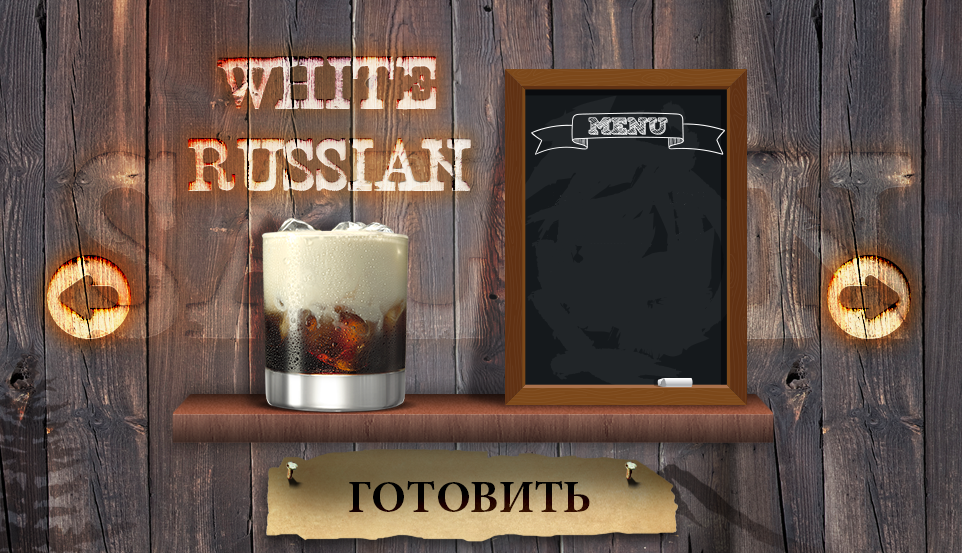
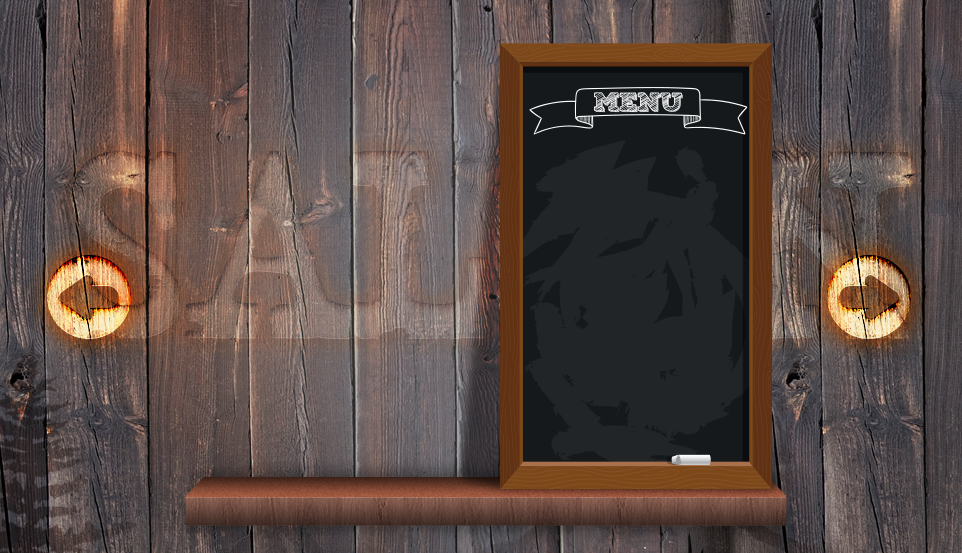
Add new layout

diff --git a/src/client/app/pumps/pumps.html b/src/client/app/pumps/pumps.html
@@ -31,26 +31,41 @@
             </md-content>
         </md-tab>
         <md-tab label="Ingredients">
-            <md-content class="md-padding" flex>
-                <div layout="row" layout-wrap>
-                    <div flex="33">
+            <div layout="row" layout-wrap>
+                <div flex="33">
+                    <md-content class="md-padding" flex="33">
                         <md-list>
-                            <md-list-item ng-repeat-start="ingredient in vm.ingredients">
-                                <md-button style="min-width: 100%">{{ ingredient.name }}</md-button>
+                            <md-list-item ng-repeat-start="ingredient in vm.liquids">
+                                <md-button style="min-width: 100%" ng-click="vm.selectedIngredient = ingredient">{{ ingredient.name }}</md-button>
                             </md-list-item>
                             <md-divider ng-repeat-end></md-divider>
+                            <md-list-item>
+                                <md-button style="min-width: 100%" ng-click="vm.addNewLiquid()">Add new</md-button>
+                            </md-list-item>
                         </md-list>
-                    </div>
-                    <div flex="66">
-                        [flex="55"]
-                    </div>
+                    </md-content>
                 </div>
+                <div flex="66">
+                    <md-content layout-padding>
+                        <md-input-container>
+                            <label>Id</label>
+                            <input ng-model="vm.selectedIngredient.id" type="text" ng-disabled="!vm.selectedIngredient.isNew">
+                        </md-input-container>
+                        <md-input-container>
+                            <label>Name</label>
+                            <input ng-model="vm.selectedIngredient.name" type="text">
+                        </md-input-container>
+                        <md-button class="md-raised" ng-click="vm.saveLiquids()">Save</md-button>
+                    </md-content>
+                </div>
+            </div>
+        </md-tab>
+        <md-tab label="Cocktails">
+            <md-content class="md-padding">
             </md-content>
         </md-tab>
-        <md-tab label="three">
+        <md-tab label="Exit" ng-click="shell.showApp = !shell.showApp">
             <md-content class="md-padding">
-                <h1 class="md-display-2">Tab Three</h1>
-                <p>Integer turpis erat, porttitor vitae mi faucibus, laoreet interdum tellus. Curabitur posuere molestie dictum. Morbi eget congue risus, quis rhoncus quam. Suspendisse vitae hendrerit erat, at posuere mi. Cras eu fermentum nunc. Sed id ante eu orci commodo volutpat non ac est. Praesent ligula diam, congue eu enim scelerisque, finibus commodo lectus.</p>
             </md-content>
         </md-tab>
     </md-tabs>

diff --git a/src/client/app/layout/shell.js b/src/client/app/layout/shell.js
@@ -16,11 +16,14 @@
         var SIGN_BOARD = "content/images/signboard.png";
         var GEAR = "content/images/gear.png";
         var SMALL_GEAR = "content/images/small_gear.png";
+        var DEFAULT_COCKTAIL = "content/images/default-cocktail.png";
+        var MAKE_BUTTON = "content/images/make.png";
+        var VOICE_BUTTON = "content/images/voice.png";
         var DISPLAY =  {x: 962, y: 553};
         var PREVIOUS_BUTTON_SIZES = [40, 255, 90, 90];
         var NEXT_BUTTON_SIZES = [825, 255, 90, 90];
         var START_BUTTON_SIZES = [425, 340, 125, 125];
-        var MAKE_COCKTAIL_BUTTON_SIZES = [260, 440, 410, 100];
+        var MAKE_COCKTAIL_BUTTON_SIZES = [815, 425, 100, 100];
         var INGREDIENT_START_POSITION = {x: 530, y: 160};
         var INGREDIENT_OFFSET = 35;
 
@@ -94,6 +97,9 @@
                 .add('SIGN_BOARD', SIGN_BOARD)
                 .add('GEAR', GEAR)
                 .add('SMALL_GEAR', SMALL_GEAR)
+                .add('DEFAULT_COCKTAIL', DEFAULT_COCKTAIL)
+                .add('MAKE_BUTTON', MAKE_BUTTON)
+                .add('VOICE_BUTTON', VOICE_BUTTON)
                 .load(function (loader, resources) {
                     stage.resources = resources;
                     var splashScreen = new PIXI.Sprite(resources.SPLASH_SCREEN_IMAGE.texture);
@@ -193,6 +199,11 @@
             smallGear.y = 62;
             smallGear.pivot = new PIXI.Point(12, 12);
 
+            var cocktail = new PIXI.Sprite(stage.resources.DEFAULT_COCKTAIL.texture);
+            cocktail.interactive = true;
+            cocktail.x = 250;
+            cocktail.y = 300;
+
             requestAnimationFrame(animateSmallGear);
             function animateSmallGear() {
                 requestAnimationFrame(animateSmallGear);
@@ -200,6 +211,12 @@
             }
             currentScene.addChild(gear);
             currentScene.addChild(smallGear);
+            currentScene.addChild(cocktail);
+
+            var makeButton = new PIXI.Sprite(stage.resources.MAKE_BUTTON.texture);
+            makeButton.interactive = true;
+            makeButton.x = 815;
+            makeButton.y = 425;
 
             var makeCocktail = new InteractiveArea(stage, {
                 sizes: MAKE_COCKTAIL_BUTTON_SIZES,
@@ -207,8 +224,14 @@
                     prepareCocktail();
                 }
             });
+            currentScene.addChild(makeButton);
             currentScene.addChild(makeCocktail);
 
+            var voiceButton = new PIXI.Sprite(stage.resources.VOICE_BUTTON.texture);
+            voiceButton.interactive = true;
+            voiceButton.x = 35;
+            voiceButton.y = 425;
+            currentScene.addChild(voiceButton);
 
             var allIngredients = data.bar_ingredients.concat(data.ingredients);
 

diff --git a/src/client/app/core/dataservice.js b/src/client/app/core/dataservice.js
@@ -19,6 +19,7 @@
             prepareCocktail: prepareCocktail,
             getPumpConfig: getPumpConfig,
             savePumpConfig: savePumpConfig,
+            saveLiquidsConfig: saveLiquidsConfig,
             ready: ready
         };
 
@@ -41,8 +42,7 @@
         }
 
         function getLiquids() {
-            var Liquids = $resource('/api/liquids', {});
-            return Liquids.query({}).$promise.then(getLiquidsComplete).catch(handleException);
+            return getLiquidsResource().query({}).$promise.then(getLiquidsComplete).catch(handleException);
             function getLiquidsComplete(data, status, headers, config) {
                 return data[0].data;
             }
@@ -70,6 +70,38 @@
             function getPumpsConfigComplete(data, status, headers, config) {
                 return data[0].data;
             }
+        }
+
+        function saveLiquidsConfig(config) {
+            _.each(config, function(item){
+                delete item.isNew;
+            });
+            var storedConfig = [{
+                'data': config
+            }];
+            return getLiquidsResource().save(storedConfig).$promise.then(getLiquidsConfigComplete).catch(handleException);
+            function getLiquidsConfigComplete(data, status, headers, config) {
+                return data[0].data;
+            }
+        }
+
+        function getLiquidsResource() {
+            var actions = {
+                get: {
+                    url: '/api/liquids',
+                    method: "GET",
+                    isArray: true
+                },
+                save: {
+                    url: '/api/liquids',
+                    method: "POST",
+                    data: {
+                        config: '@config'
+                    },
+                    isArray: true
+                }
+            };
+            return $resource('/api/liquids', {}, actions);
         }
 
         function getPumpResource() {

diff --git a/src/client/app/pumps/pumps.js b/src/client/app/pumps/pumps.js
@@ -14,9 +14,10 @@
         vm.init = init;
         vm.pumps = [];
         vm.liquids = [];
-        vm.ingredients = [];
 
         vm.savePumps = savePumps;
+        vm.saveLiquids = saveLiquids;
+        vm.addNewLiquid = addNewLiquid;
         vm.title = 'Pumps config';
 
         activate();
@@ -24,10 +25,11 @@
         function init(pump) {
             _.remove(vm.liquids, 'id', pump.liquid.id);
             vm.liquids.unshift(pump.liquid);
+            vm.selectedIngredient = pump.liquid;
         }
 
         function activate() {
-            var promises = [getLiquids(), getPumps(), getIngredients()];
+            var promises = [getLiquids(), getPumps()];
             return $q.all(promises);
         }
 
@@ -44,6 +46,18 @@
             });
         }
 
+        function saveLiquids() {
+            return dataservice.saveLiquidsConfig(vm.liquids).then(function (data) {
+                logger.success('Liquids config saved');
+            });
+        }
+
+        function addNewLiquid() {
+            var newLiquid = {isNew: true, name: "Default", id: guid()};
+            vm.liquids.push(newLiquid);
+            vm.selectedIngredient = newLiquid;
+        }
+
         function getLiquids() {
             return dataservice.getLiquids().then(function (data) {
                 vm.liquids = data;
@@ -51,10 +65,14 @@
             });
         }
 
-        function getIngredients() {
-            return dataservice.getIngredients().then(function (data) {
-                return vm.ingredients = data;
-            });
+        function guid() {
+            function s4() {
+                return Math.floor((1 + Math.random()) * 0x10000)
+                    .toString(16)
+                    .substring(1);
+            }
+            return s4() + s4() + '-' + s4() + '-' + s4() + '-' +
+                s4() + '-' + s4() + s4() + s4();
         }
     }
 })();

diff --git a/src/server/routes/routes.js b/src/server/routes/routes.js
@@ -9,6 +9,7 @@ var Routes = function (app) {
     app.get('/api/pump-config', getPumpConfiguration);
     app.post('/api/pump-config', savePumpConfiguration);
     app.post('/api/pour', pourLiquid);
+    app.post('/api/liquids', saveLiquidsConfiguration)
 
     function getCocktails(req, res, next) {
         res.send(vm.dataService.getCocktails());
@@ -28,6 +29,11 @@ var Routes = function (app) {
 
     function savePumpConfiguration(req, res, next) {
         vm.dataService.savePumpConfiguration(req.body);
+        res.send(req.body);
+    }
+
+    function saveLiquidsConfiguration(req, res, next) {
+        vm.dataService.saveLiquidsConfiguration(req.body);
         res.send(req.body);
     }
 

diff --git a/src/server/dataservice/localDataService.js b/src/server/dataservice/localDataService.js
@@ -6,6 +6,7 @@ var LocalDataService = function () {
     vm.getLiquids = getLiquids;
     vm.getPumpConfiguration = getPumpConfiguration;
     vm.savePumpConfiguration = savePumpConfiguration;
+    vm.saveLiquidsConfiguration = saveLiquidsConfiguration;
     vm.getIngredients = getIngredients;
 
     //////////////////
@@ -32,6 +33,10 @@ var LocalDataService = function () {
 
     function savePumpConfiguration(config) {
         vm.jsonfileservice.saveJsonToFile('/../../data/pumpConfig_custom.json', config);
+    }
+
+    function saveLiquidsConfiguration(config) {
+        vm.jsonfileservice.saveJsonToFile('/../../data/liquids.json', config);
     }
 
 };

diff --git a/src/client/app/layout/shell.html b/src/client/app/layout/shell.html
@@ -1,5 +1,5 @@
 <div data-ng-controller="Shell as shell" style="height: 100%">
-    <section id="content" class="content" ng-show="shell.showApp" style="height: 100%">
+    <section id="content" class="content" ng-if="shell.showApp" style="height: 100%">
         <div data-ng-view class="shuffle-animation" style="height: 100%; overflow-x: visible; overflow-y: auto"></div>
         <div ngplus-overlay
              ngplus-overlay-delay-in="50"

diff --git a/src/client/app/pixi/InteractiveArea.js b/src/client/app/pixi/InteractiveArea.js
@@ -13,6 +13,9 @@ function InteractiveArea(stage, options) {
 
     that.interactive = true;
 
+   /* that.lineStyle(2, 0x0000FF, 1);
+    that.drawRect.apply(that, options.sizes);*/
+
     that.hitArea = new PIXI.Rectangle();
     PIXI.Rectangle.apply(that.hitArea, options.sizes);
 
